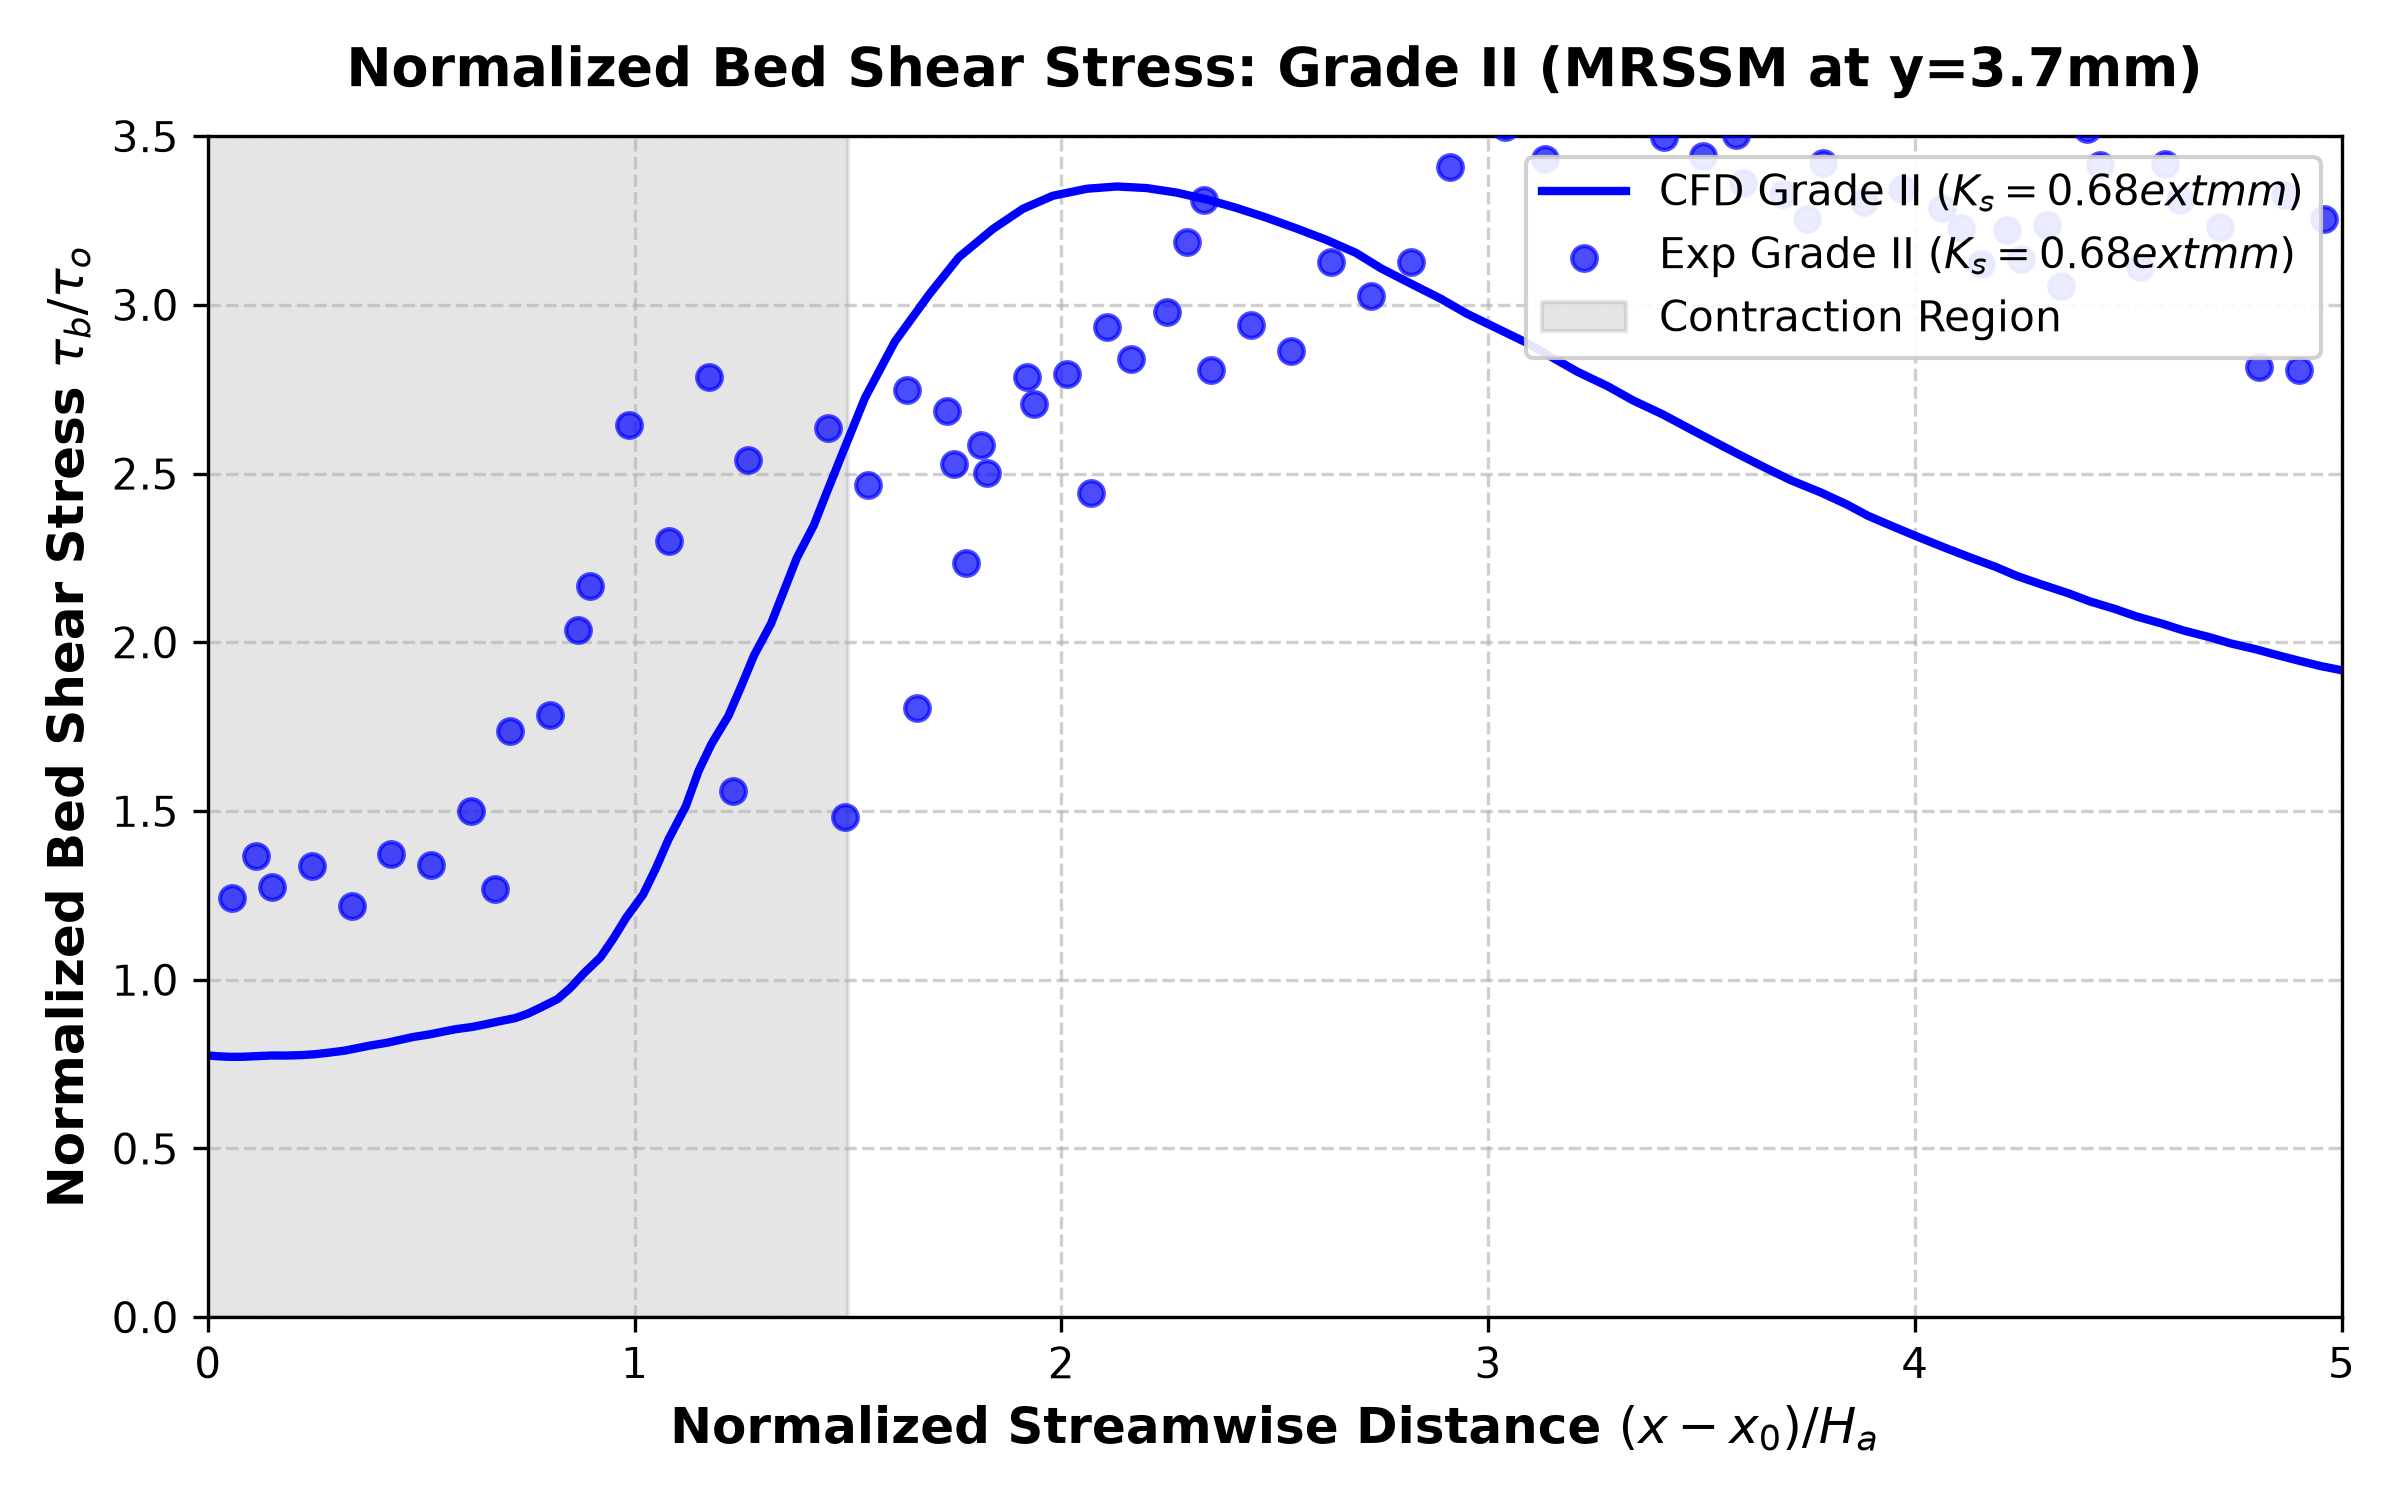
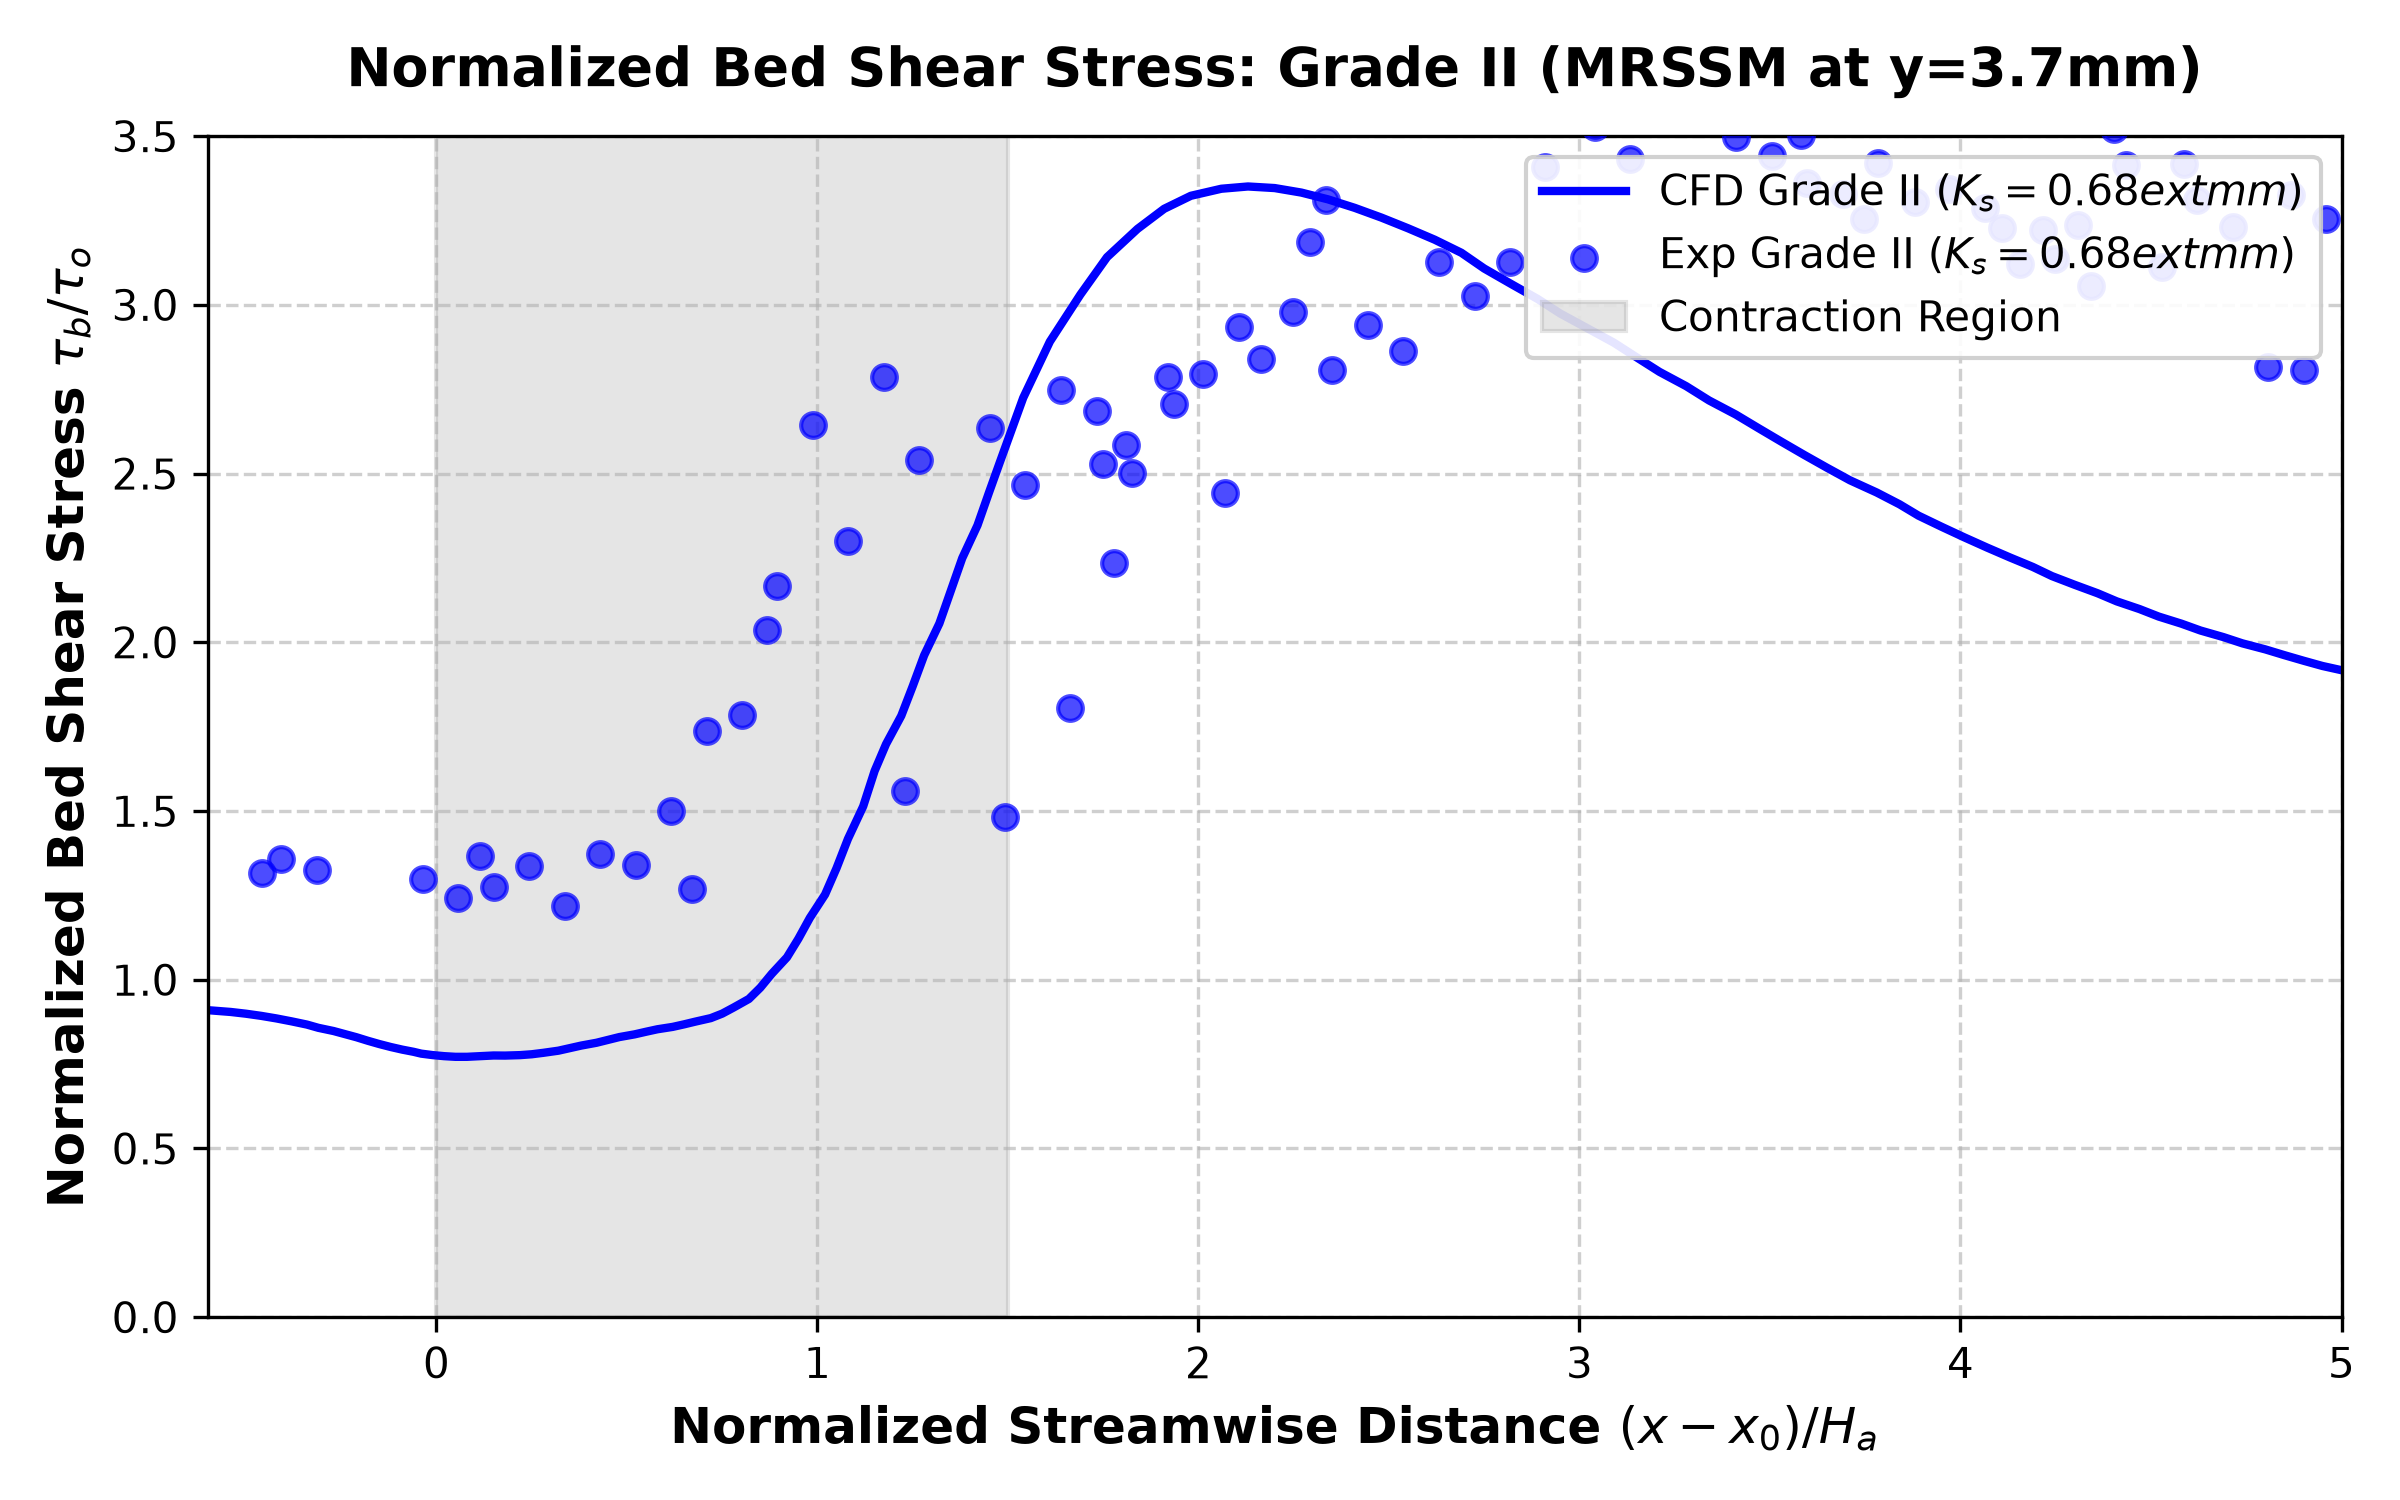
Zoom out validation plots to include the upstream region down to x/Ha = -0.6

diff --git a/plot_comparison.py b/plot_comparison.py
@@ -112,7 +112,7 @@ for idx, (x_cfd, tau_cfd, exp_x, exp_tau, color, marker, label, limit_y, ax) in 
     if exp_x:
         ax.scatter(exp_x, exp_tau, color=color, marker=marker, s=30, alpha=0.7, label=f'Exp {label}', zorder=5)
     ax.axvspan(0.0, 1.5, color='gray', alpha=0.2, label='Contraction Region' if idx == 0 else "")
-    ax.set_xlim(0, 5.0)
+    ax.set_xlim(-0.6, 5.0)
     ax.set_ylim(0, 7.5) # Extended limit because wall shear stress goes high
     ax.set_xlabel('Normalized Streamwise Distance $(x - x_0)/H_a$', fontsize=11, fontweight='bold')
     if idx == 0:
@@ -135,7 +135,7 @@ def generate_individual_plot(x_cfd, tau_cfd, exp_x, exp_tau, color, marker, labe
     if exp_x:
         plt.scatter(exp_x, exp_tau, color=color, marker=marker, s=35, alpha=0.7, label=f'Exp {label}', zorder=5)
     plt.axvspan(0.0, 1.5, color='gray', alpha=0.2, label='Contraction Region')
-    plt.xlim(0, 5.0)
+    plt.xlim(-0.6, 5.0)
     plt.ylim(0, 7.5 if is_wall else 3.5)
     plt.xlabel('Normalized Streamwise Distance $(x - x_0)/H_a$', fontsize=12, fontweight='bold')
     plt.ylabel('Normalized Bed Shear Stress $\\tau_b / \\tau_{o}$', fontsize=12, fontweight='bold')
@@ -185,7 +185,7 @@ for idx, (x_cfd, tau_cfd, exp_x, exp_tau, color, marker, label, limit_y, ax) in 
     if exp_x:
         ax.scatter(exp_x, exp_tau, color=color, marker=marker, s=30, alpha=0.7, label=f'Exp {label}', zorder=5)
     ax.axvspan(0.0, 1.5, color='gray', alpha=0.2, label='Contraction Region' if idx == 0 else "")
-    ax.set_xlim(0, 5.0)
+    ax.set_xlim(-0.6, 5.0)
     ax.set_ylim(0, 3.5)
     ax.set_xlabel('Normalized Streamwise Distance $(x - x_0)/H_a$', fontsize=11, fontweight='bold')
     if idx == 0:
